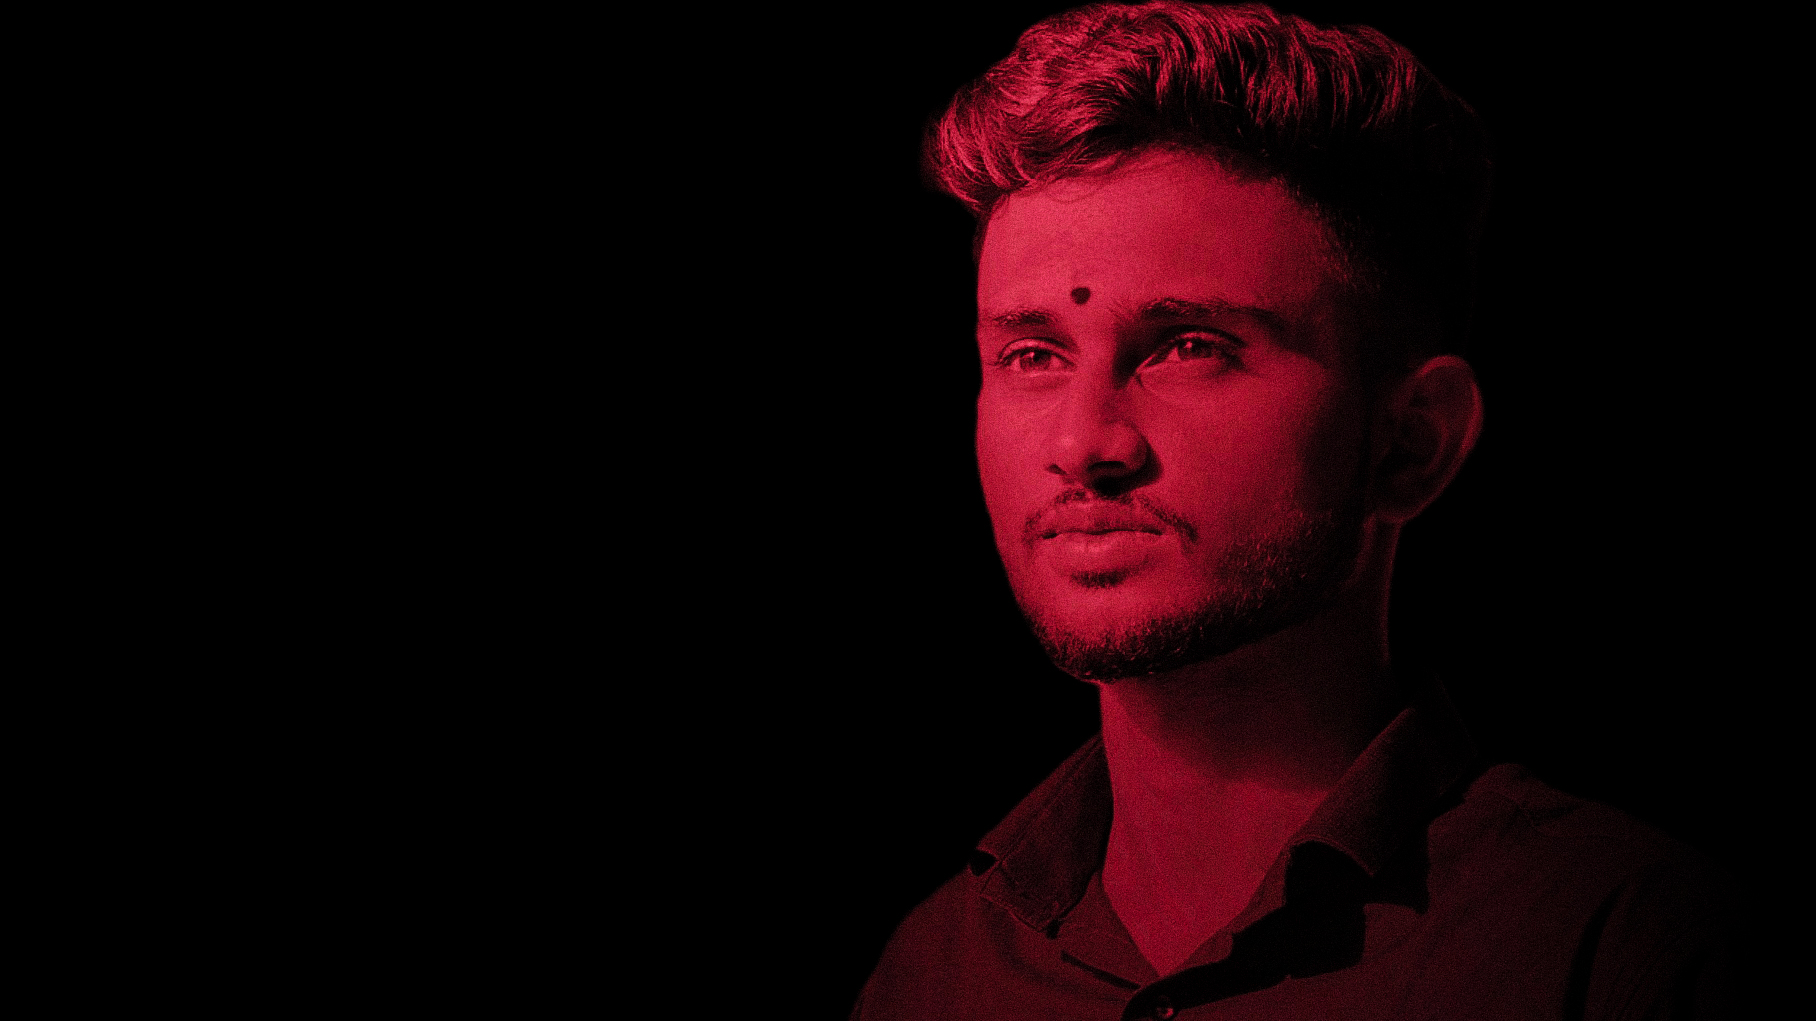
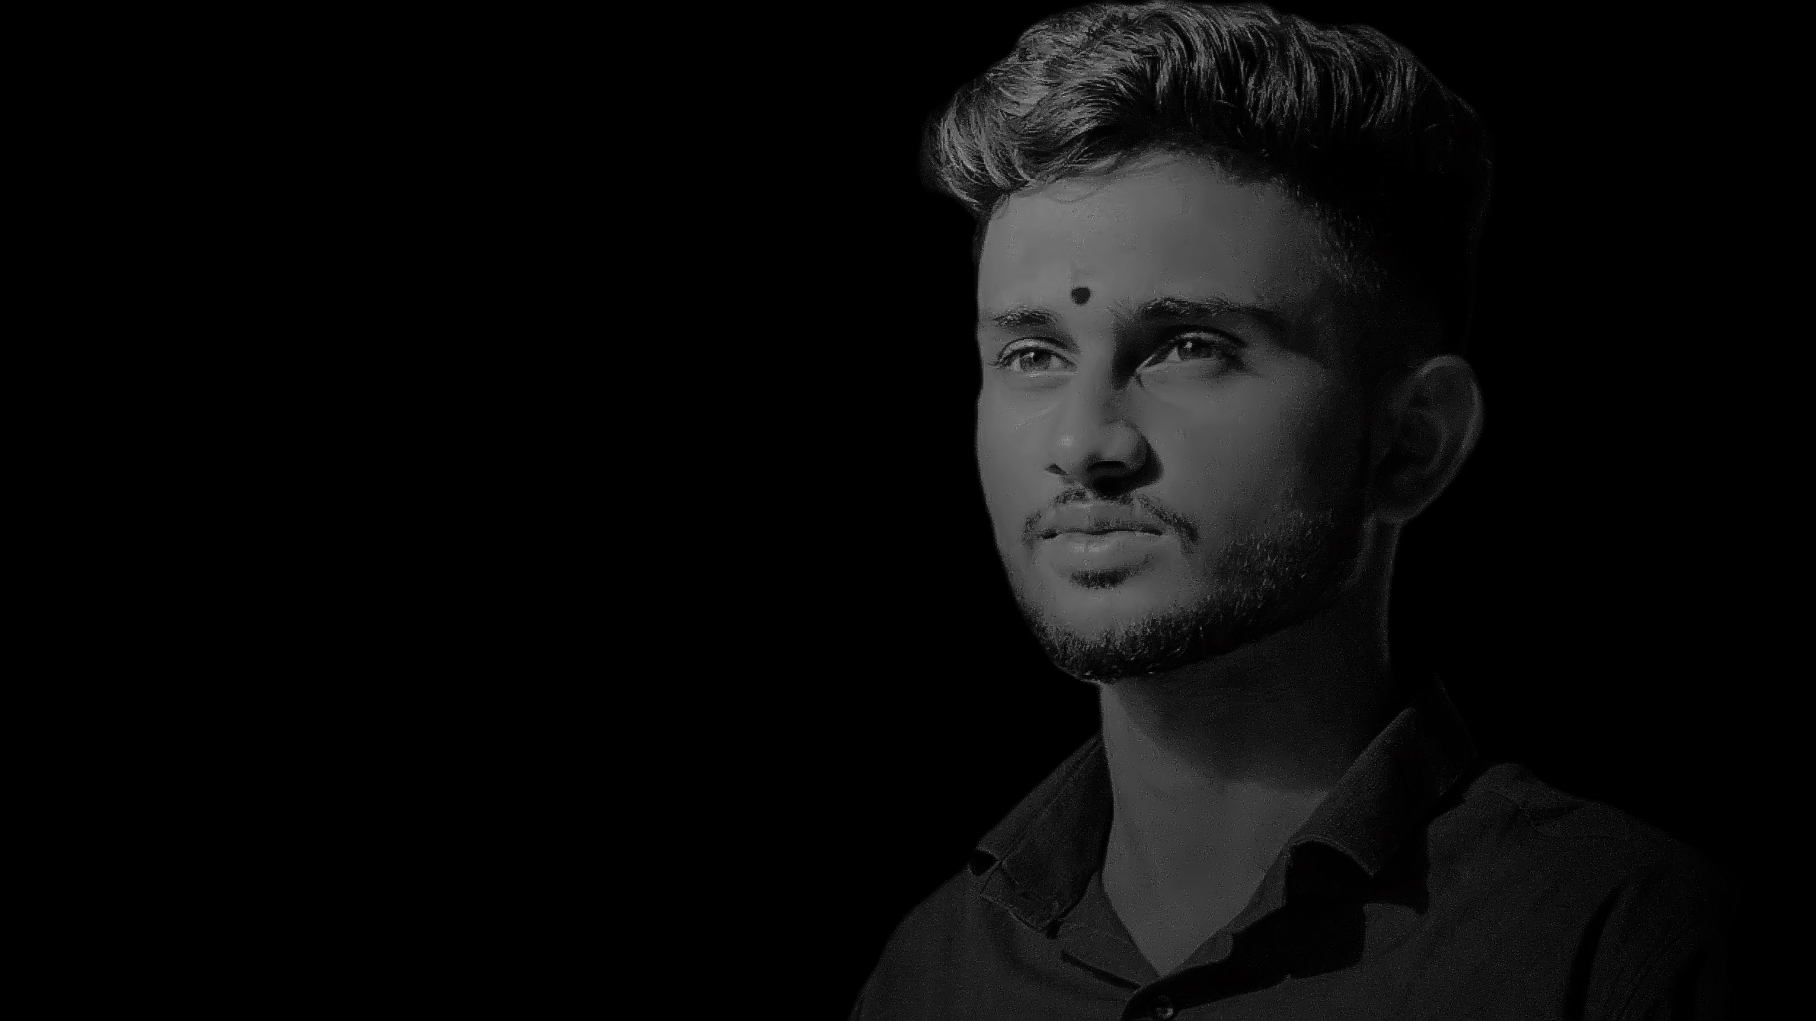
cintact photo change and bg pic also change

Changed region(s): [[0.4934, 0.0, 0.8018, 1.0], [0.7709, 0.3947, 0.8326, 0.4554], [0.7709, 0.334, 0.8018, 0.3643]]

diff --git a/index.html b/index.html
@@ -419,7 +419,7 @@
       </form>
     </div>
     <div class="col-lg-6 order-1 mb-4 order-lg-1 mb-lg-0">
-      <img src="./images/abhicont2.jpg" class="img-fluid" alt="">
+      <img src="./images/IMG_2.jpg" class="img-fluid" alt="">
 
     </div>
   </div>
